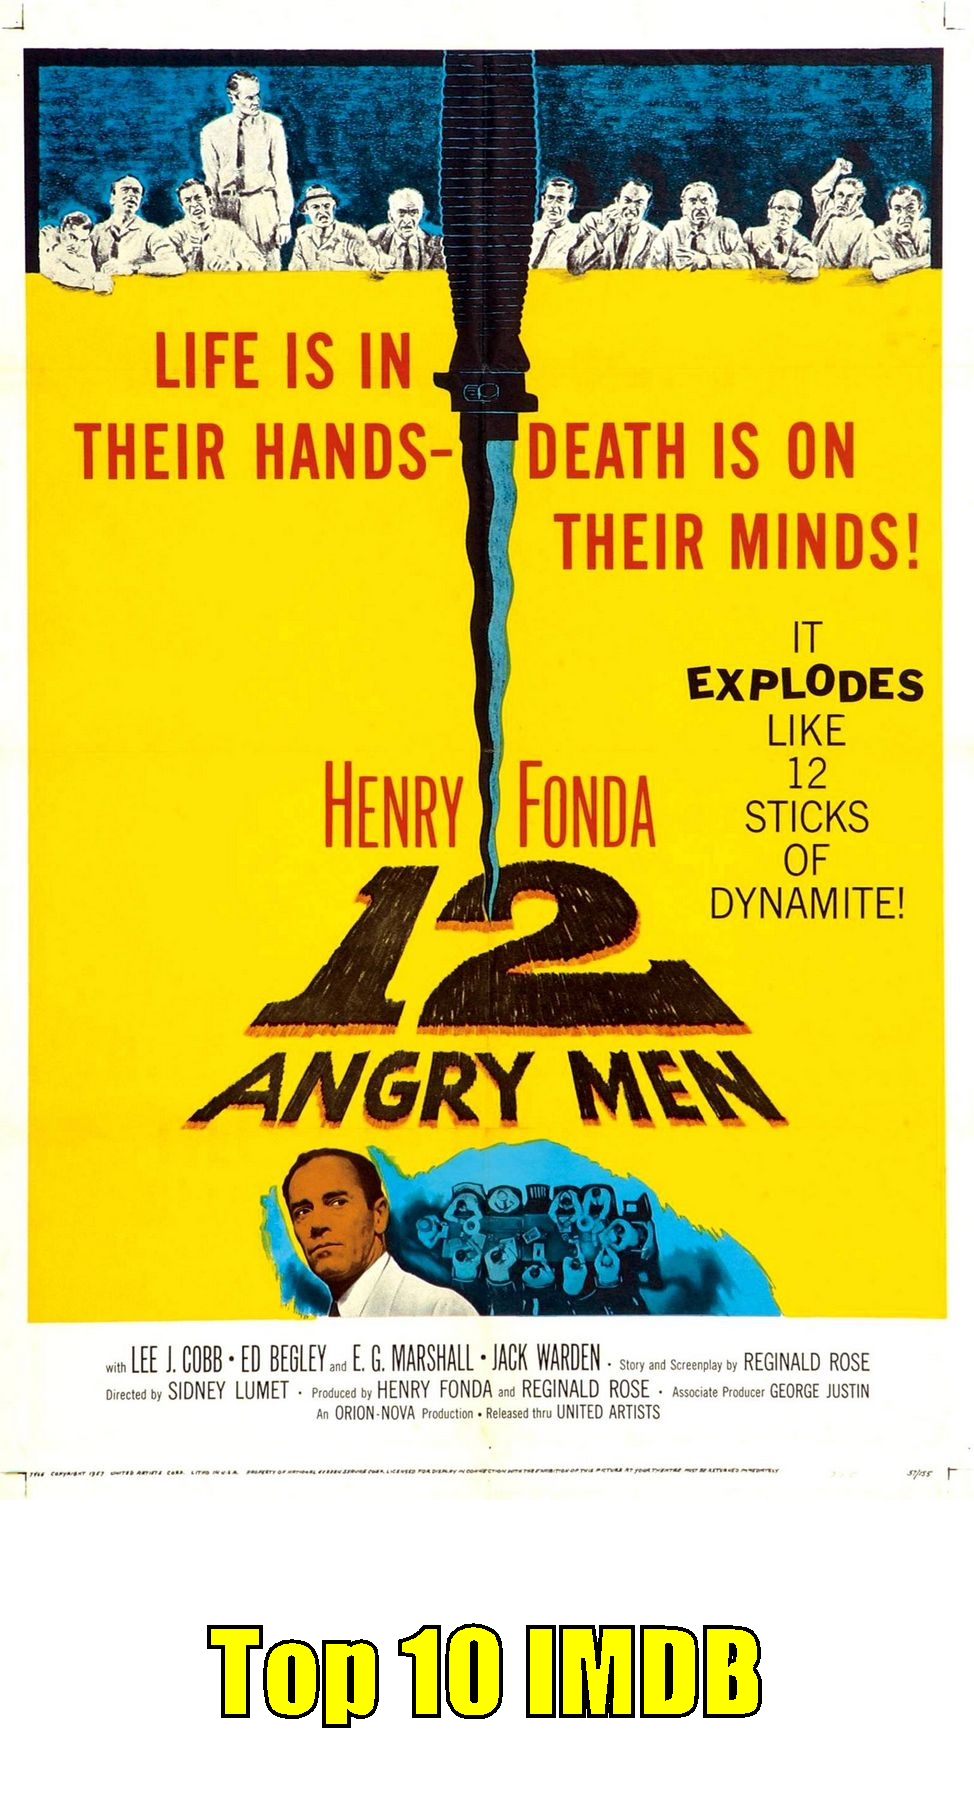
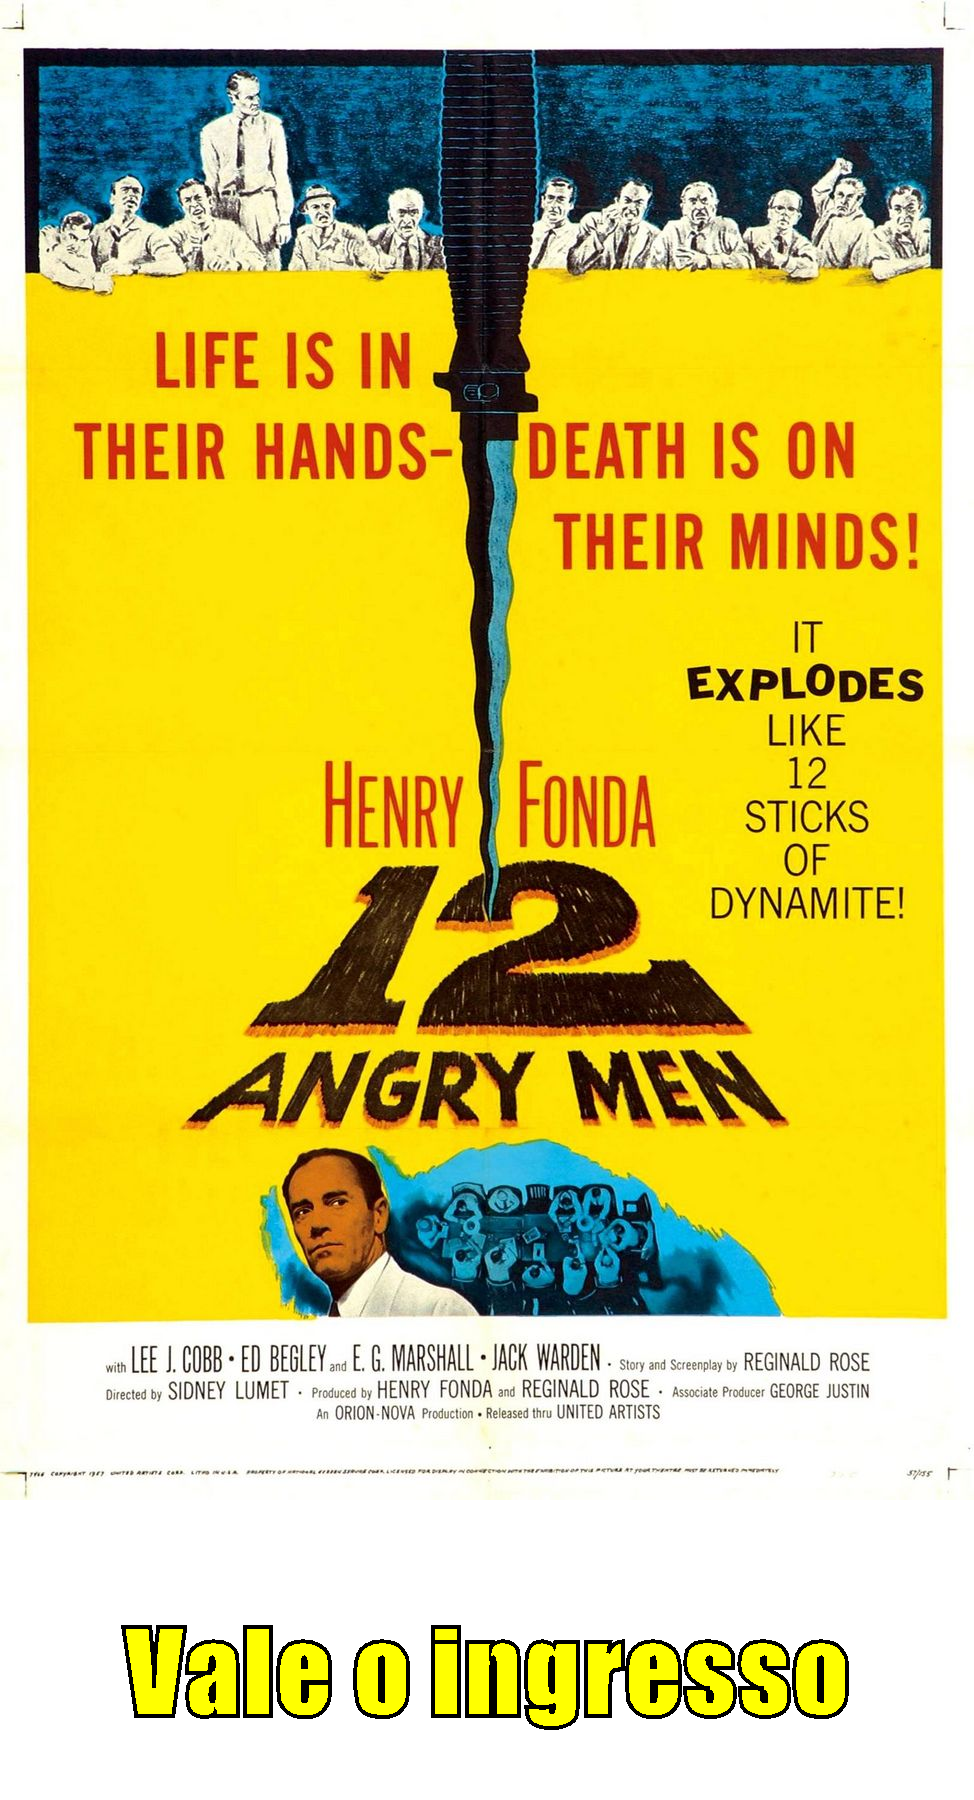
Alteração para definir o subtítulo do sticker de acordo com a nota do filme

Changed region(s): [[0.1232, 0.9022, 0.8932, 0.9644]]

diff --git a/src/alurasticker/sticker/StickerFactory.java b/src/alurasticker/sticker/StickerFactory.java
@@ -19,7 +19,7 @@ import javax.imageio.ImageIO;
 
 public class StickerFactory {
 	
-	public void createSticker(InputStream image, String stickerName) throws IOException {
+	public void createSticker(InputStream image, String subtitle, String stickerName) throws IOException {
 		// leitura da imagem
 		// InputStream localImage = new FileInputStream(new File("assets/movie.jpg"));
 		BufferedImage originalImage = ImageIO.read(image);
@@ -36,24 +36,23 @@ public class StickerFactory {
 		graphics.drawImage(originalImage,0, 0, null);
 		
 		// configura texto a ser escrito
-		String text = "Top 10 IMDB";
 		int textSize = (newHeight / 100) * 6;
 		Font font = new Font("impact", Font.BOLD, textSize);
 		graphics.setColor(Color.YELLOW);		
 		graphics.setFont(font);
 
 		FontMetrics fontMetrics = graphics.getFontMetrics();
-		Rectangle2D rectangle = fontMetrics.getStringBounds(text, graphics);
+		Rectangle2D rectangle = fontMetrics.getStringBounds(subtitle, graphics);
 		int textWidth = (int) rectangle.getWidth();
 		int textHeight = (int) rectangle.getHeight();
 		int textXPosition = (width - textWidth) / 2;
 		int textYPosition = (textBoxHeight - textHeight) / 2;
 
 		// escrever um texto personalizado na imagem (em memória)
-		graphics.drawString(text, textXPosition, newHeight - textYPosition);
+		graphics.drawString(subtitle, textXPosition, newHeight - textYPosition);
 		
 		FontRenderContext fontRenderContext = graphics.getFontRenderContext();
-		TextLayout textLayout = new TextLayout(text, font, fontRenderContext);
+		TextLayout textLayout = new TextLayout(subtitle, font, fontRenderContext);
 		Shape outline = textLayout.getOutline(null);
 		AffineTransform transform = graphics.getTransform();
 		transform.translate(textXPosition, (double) newHeight - textYPosition);

diff --git a/src/alurastickers/main/App.java b/src/alurastickers/main/App.java
@@ -50,10 +50,10 @@ public class App {
 					, imageUrl
 					, imdbRating
 					, printStarByRating(imdbRating)));
-			try {
+			try {				
 				InputStream image = new URL(imageUrl).openStream();
-				stickerFactory.createSticker(image, title);
-			} catch (IOException e) {
+				stickerFactory.createSticker(image, setSubtitle(Double.valueOf(imdbRating)), title);
+			} catch (Exception e) {
 				e.printStackTrace();
 			}
 		});
@@ -62,5 +62,12 @@ public class App {
 	public static String printStarByRating(String imdbRating) {
 		return STAR.repeat(Integer.parseInt(imdbRating.substring(0, 1)));
 	}
-
+	
+	public static String setSubtitle(Double imdbRating) {
+		if (imdbRating <= 3.0) return "O risco é seu";
+		if (imdbRating <= 6.0) return "É oq tem pra hj";
+		if (imdbRating <= 9.0) return "Vale o ingresso";
+		
+		return "Megadica";
+	}
 }
